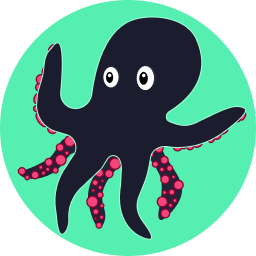
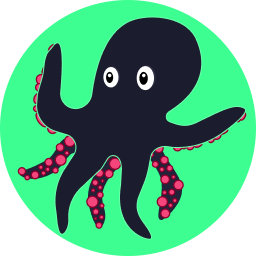
change accent color back to green

diff --git a/CHANGELOG.md b/CHANGELOG.md
@@ -9,6 +9,7 @@ The format is based on [Keep a Changelog](https://keepachangelog.com/en/1.0.0/),
 ### Changed
 
 - redesign icon
+- accent color back to green
 
 ## [v0.0.4] - 2022-02-08
 
